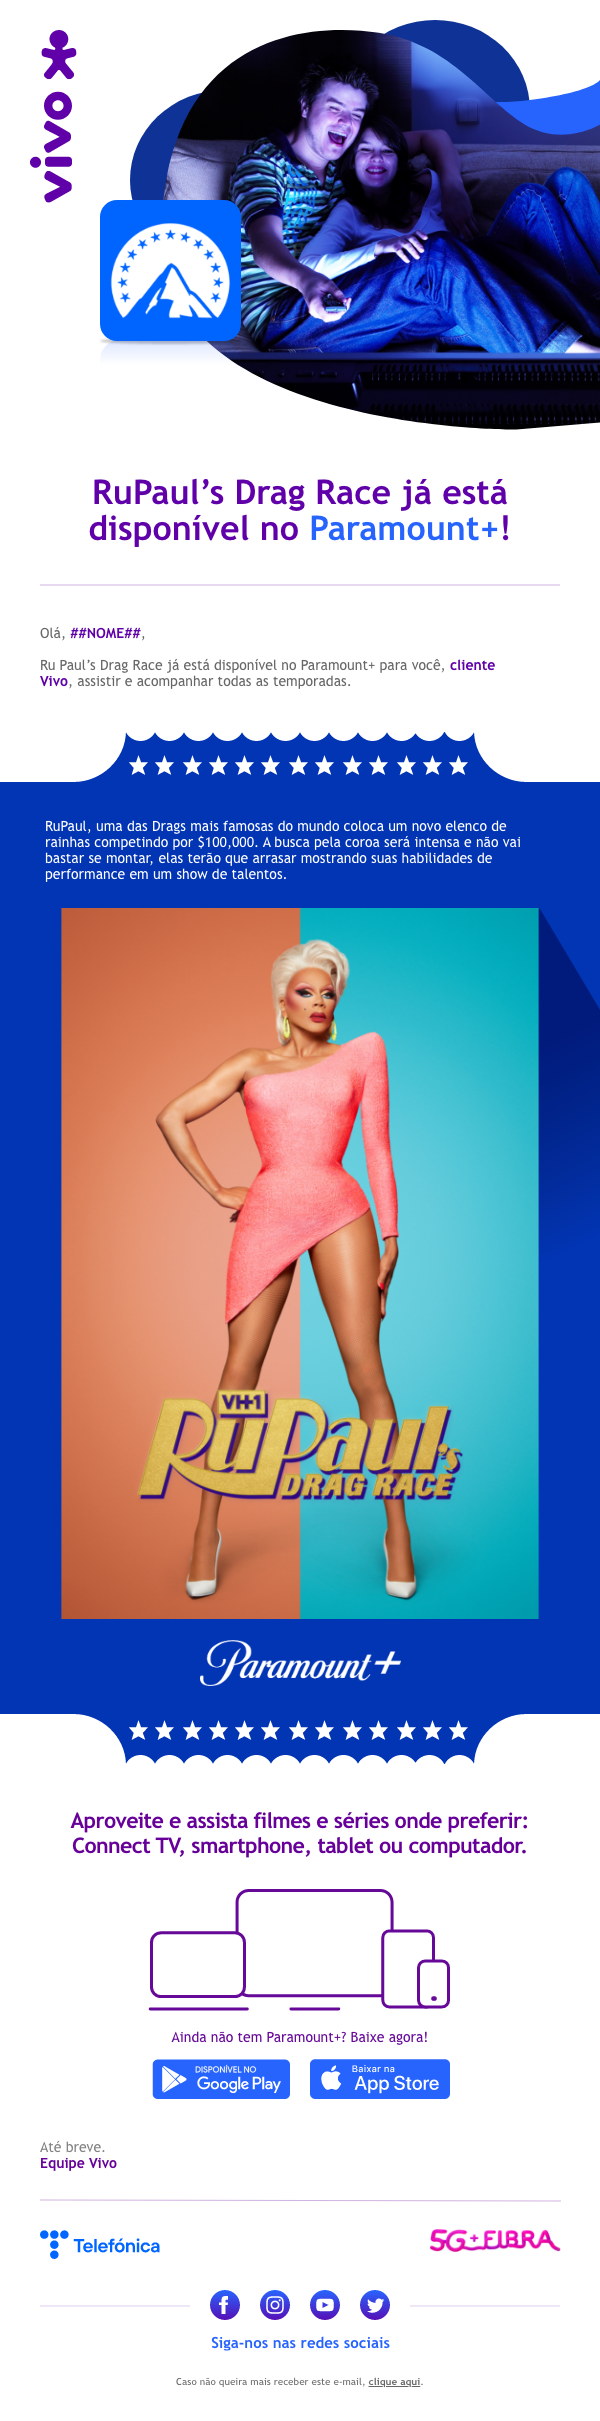
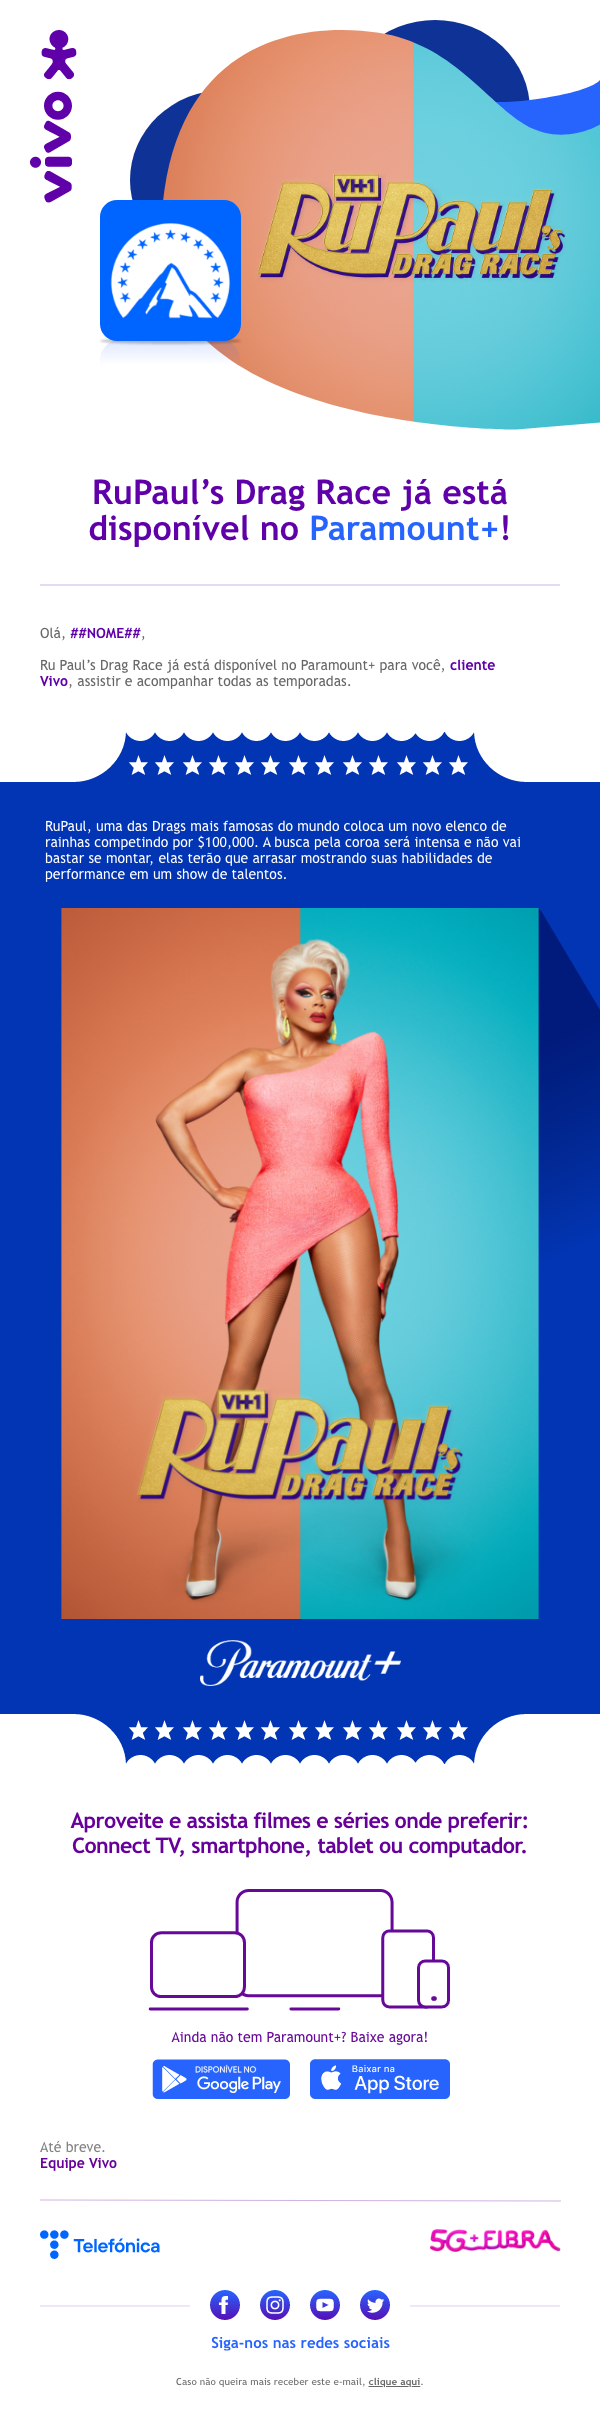
update 11048

Changed region(s): [[0.27, 0.0, 1.0, 0.1859]]

diff --git a/2022/Vivo/082_247_11048/11048_slc_engajamento_paramount_bundle_fev_22_email_1_hospedadas.html b/2022/Vivo/082_247_11048/11048_slc_engajamento_paramount_bundle_fev_22_email_1_hospedadas.html
@@ -96,7 +96,7 @@
     </tr>
     <tr>
       <td>
-        <img border="0" width="600" style="display: block;" src="https://www.vivo.com.br/content/dam/crm/fevereiro22/engajamento_paramount_bundle_fev22/banner_2.png" alt="vivo" class="wd100">
+        <img border="0" width="600" style="display: block;" src="https://www.vivo.com.br/content/dam/crm/fevereiro22/engajamento_paramount_bundle_fev22/banner_3.png" alt="vivo" class="wd100">
       </td>
     </tr>
   <tr>
@@ -169,7 +169,7 @@
             <table border="0" cellpadding="0" cellspacing="0">
               <tr>
                 <td align="right">
-                  <img border="0" width="" style="display: block;" src="https://www.vivo.com.br/content/dam/crm/fevereiro22/engajamento_paramount_bundle_fev22/img_5.png" alt="" class="wd90">
+                  <img border="0" width="" style="display: block;" src="https://www.vivo.com.br/content/dam/crm/fevereiro22/engajamento_paramount_bundle_fev22/img_5.png" alt="Ru Pauls drag race" class="wd90">
                 </td>
               </tr>
             </table>

diff --git a/2022/Vivo/082_247_11048/11048_slc_engajamento_paramount_bundle_fev_22_email_1.html b/2022/Vivo/082_247_11048/11048_slc_engajamento_paramount_bundle_fev_22_email_1.html
@@ -96,7 +96,7 @@
     </tr>
     <tr>
       <td>
-        <img border="0" width="600" style="display: block;" src="./imagens/banner_2.png" alt="vivo" class="wd100">
+        <img border="0" width="600" style="display: block;" src="./imagens/banner_3.png" alt="vivo" class="wd100">
       </td>
     </tr>
   <tr>
